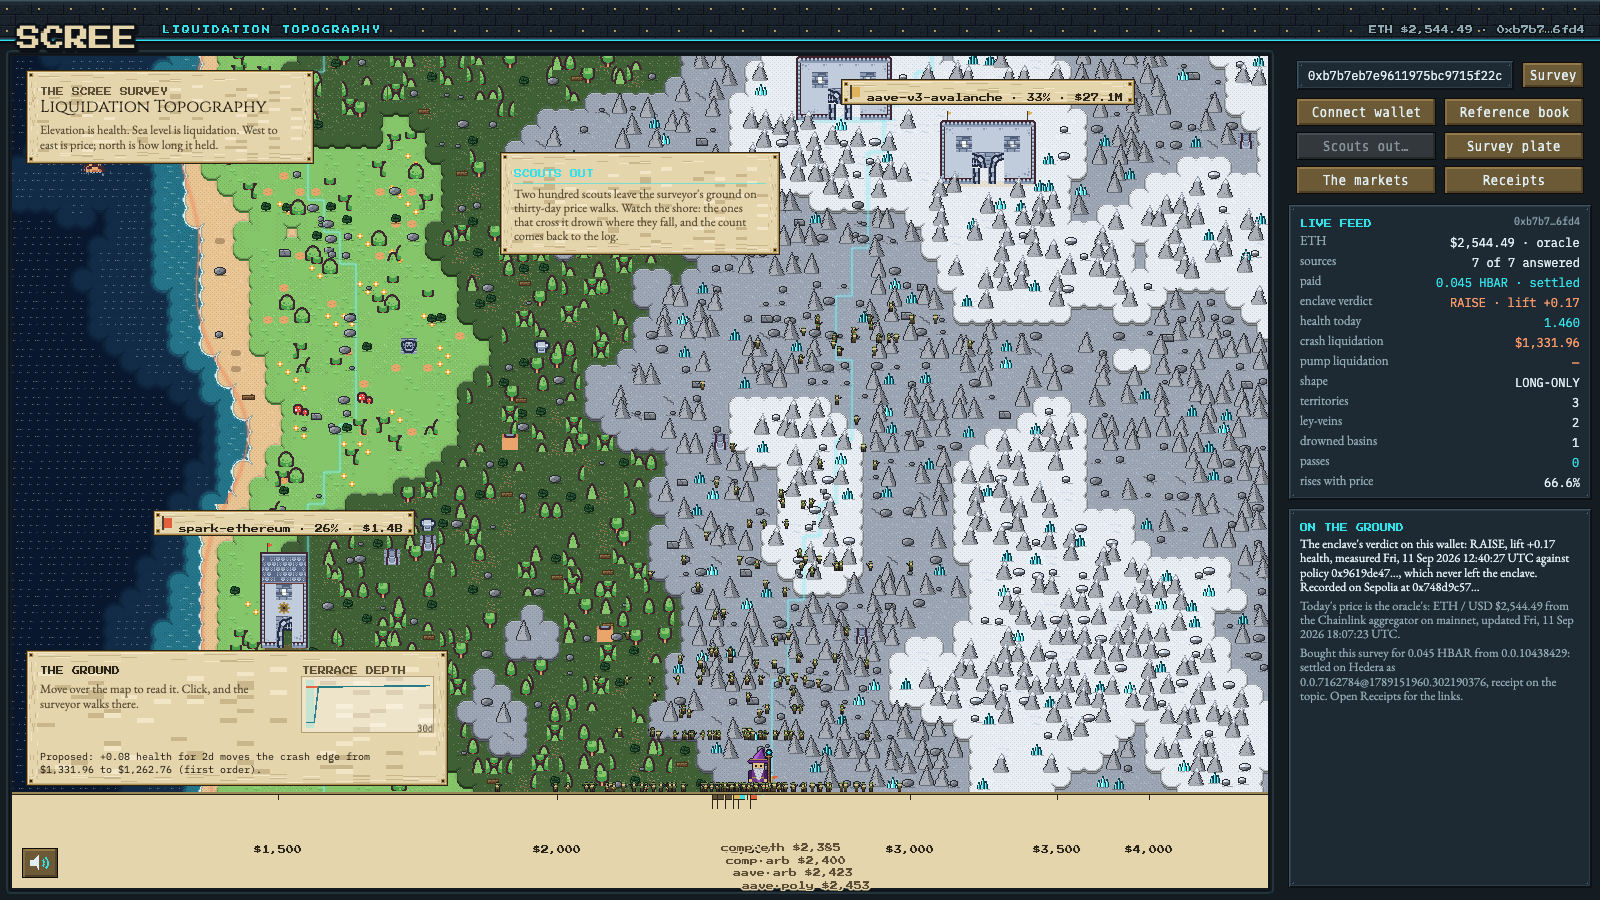
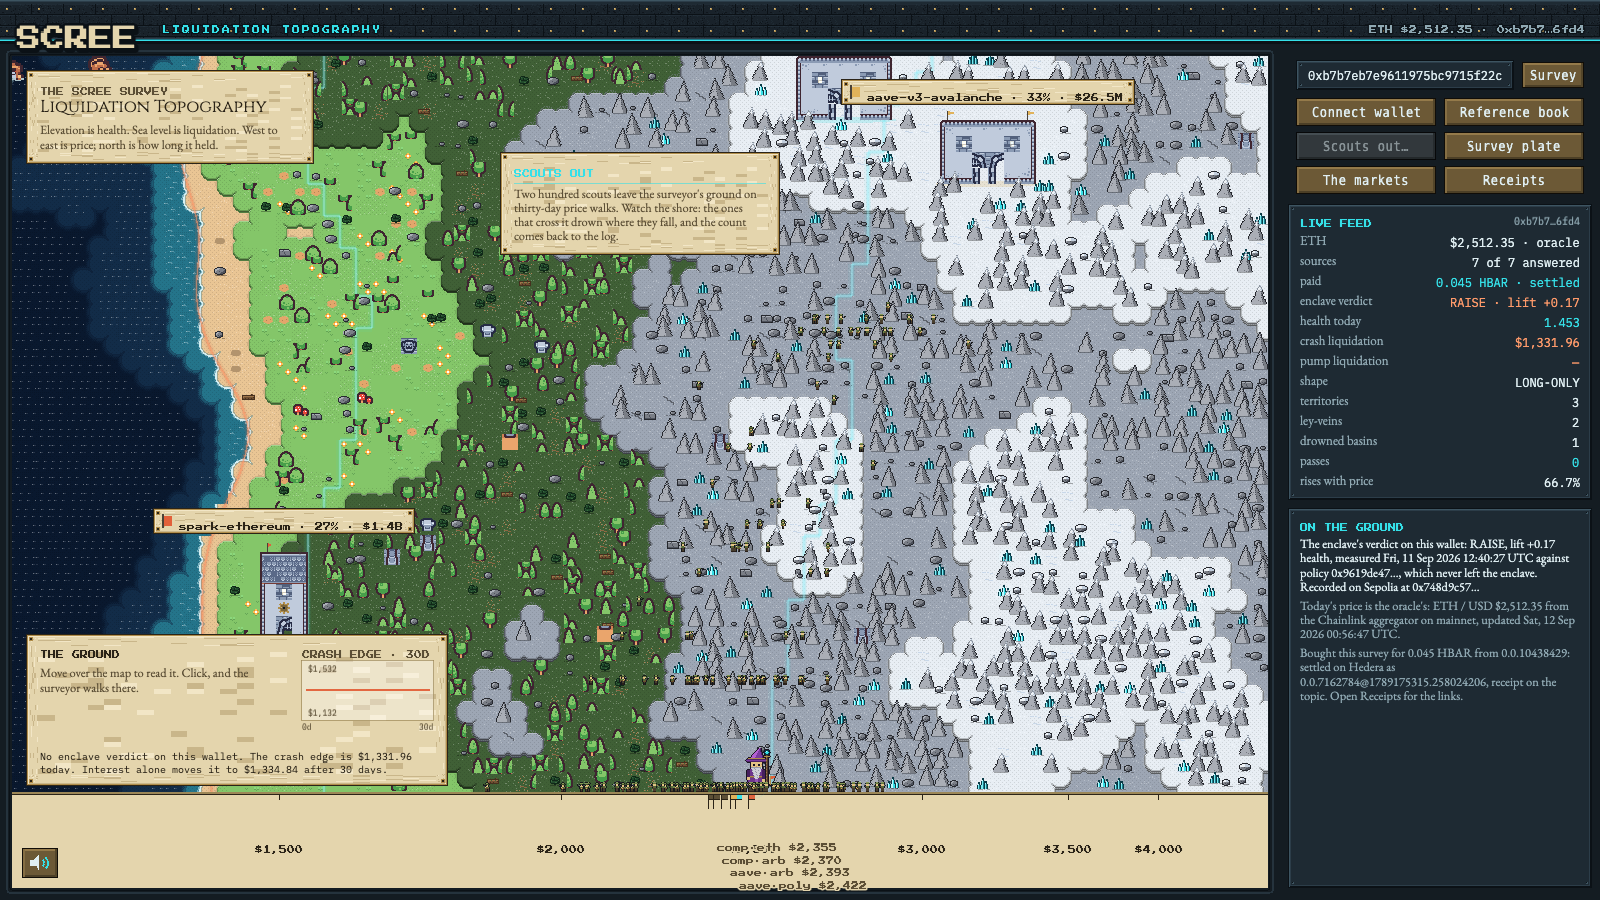
the reading panel redraws when the chart changes; the README's pictures are captured again with the charts
The idle panel kept its first caption after the enclave's verdict arrived,
so it could say there was no verdict under a feed that showed one. A new
chart now redraws the panel. The pictures are recaptured: the reading
panel with the ground under the pointer, the markets sheet with its bars,
the receipts sheet with the running total.

diff --git a/src/game/UIScene.ts b/src/game/UIScene.ts
@@ -337,6 +337,11 @@ export class UIScene extends Phaser.Scene {
       this.drawBar();
       // New market sizes or marks re-letter the banners and the scale.
       if (next.tvl !== undefined) this.raiseBanners();
+      // A new chart (a verdict arriving, a new survey) redraws the reading panel, whatever it is showing.
+      if (next.chart !== undefined && this.hover) {
+        if (this.reading) this.showZone(this.reading);
+        else this.showIdle();
+      }
     }
   }
 

diff --git a/README.md b/README.md
@@ -70,7 +70,9 @@ Three things on screen come from it:
 
 - **The markets** window (the wide button in the column): one row per
   deployment, every column from the one query, with the block each was read
-  at.
+  at; above the table, two bar charts of the same numbers, borrowed as a
+  share of each book and how far below today's price the high-water mark
+  sits.
 - **Sizes on the banners**: each holdfast's banner carries the size of that
   deployment's market in the charted asset.
 - **High-water marks on the scale**: one flag per deployment at the price
@@ -78,6 +80,8 @@ Three things on screen come from it:
   arithmetic is one line for all of them: today's price × max LTV ÷
   liquidation threshold. A fresh maximum-leverage position stands on that
   cliff, and the flags show how far apart the seven cliffs are.
+
+![The markets window: two bar charts and the table, every number from one query](docs/markets.png)
 
 ## Asking the survey, through a second Graph product
 
@@ -144,6 +148,8 @@ the nearest downside liquidation price against dwell for thirty days, on a
 scale fifteen percent either way so interest reads as the flat line it is,
 with the enclave's lift drawn beneath it when its verdict for the wallet is
 RAISE.
+
+![The reading panel: the tile under the pointer, the ground from there down to the coast, and the crash edge over thirty days](docs/reading.png)
 
 **Scouts.** Two hundred scouts, small soldiers, march out on simulated
 thirty-day price walks from where the surveyor stands. The ones that cross the
@@ -319,9 +325,12 @@ from `/api/survey` by the platform's own account, the way any other agent
 buys it, and the settlement comes back with the reading: the feed shows
 `paid · 0.045 HBAR · settled`, the log names the transaction, and the
 **Receipts** window lists the topic read back through the mirror node, every
-row linked to the explorer. If the purchase cannot be made the survey is read
-directly and the reason is named, so the map is never blank because a payment
-rail was.
+row linked to the explorer, under a chart of what was paid as a running
+total, one marker per receipt. If the purchase cannot be made the survey is
+read directly and the reason is named, so the map is never blank because a
+payment rail was.
+
+![The receipts window: what was paid as a running total, then every receipt on the topic](docs/receipts.png)
 
 The other buyer is `scripts/scout.ts`, an agent with a budget in HBAR. It
 discovers the service from the manifest, refuses any request that would
